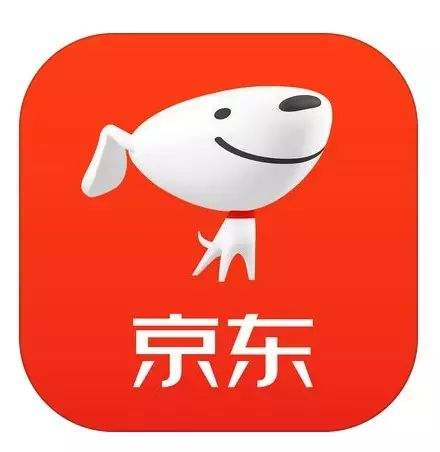
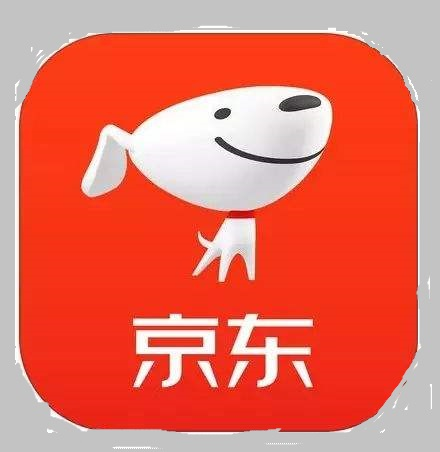
美化图标小改动

Changed region(s): [[0.0, 0.0, 1.0, 1.0]]

diff --git a/index.html b/index.html
@@ -11,15 +11,18 @@
 <div class="container" align="center">
   <div class="header"><h1><img src="image/award.gif" alt="" width="71" height="90"/>Elijah网址导航</h1>
     <!-- end .header --></div>
+<!--	百度，谷歌搜索框-->
     <div id="baidu" align="center">
     	<form action="http://www.baidu.com/s" target="_blank" class="baidu">
+<!--    	<form action="https://google.cn/s" target="_blank" class="baidu">-->
 			<input  height="100" name="word" type="text" class="input" > 
   			<span><button type="submit" class="button" >百度一下</button></span> 
   			<span><button type="submit" class="button" >谷歌一下（正在开发）</button></span> 
 		</form>
     </div>
+<!--		我的部分-->
 		<div id="mysiteimgs" align="center">
-			<p><h1>春的工作区</h1></p>
+			<p><h1>Elijah的工作区</h1></p>
       		<a title="百度" href="http://www.baidu.com/" target="hah"><img alt="慢点，图得等一会" title="百度" class="img" src="image/baidu.jpg"/></a>    	
     		<a href="https://www.bilibili.com/" target="_blank"><img alt="慢点，图得等一会" title="bilibili" class="img" src="image/bilibili.jpg"/></a>
             <a href="https://www.taobao.com/" target="_blank"><img alt="慢点，图得等一会" class="img" src="image/淘宝.jpg"/></a>
@@ -36,32 +39,23 @@
             <a href="https://www.ixueshu.com/" target="_blank"><img class="img" src="image/爱学术.png" /></a>
 			<a href="http://www.ccjt.net/" target="_blank"><img class="img" src="image/ccjt.gif" /></a>
    	   </div>
-		
+<!--	静静的工作部分-->
 		<div id="jjsiteimgs" align="center">
 			<p><h1>静的工作区</h1></p>
 			<span id="lzwords"></span>
 				<script type="text/javascript">
-					var lz = ["天行健，君子以自強不息，地勢坤，君子以厚德载物",
-							  "如果放弃太早，你永远都不知道自己会错过什么", 
-							  "你特么的看看你现在的样子?还是我爱的那个你么",
-							  "你的选择是做或不做，但不做就永远不会有机会", 
-							  "你必须成功，因为你不能失败", 
-							  "人生有两出悲剧：一是万念俱灰，另一是踌躇满志",
-							  "遇到困难时不要抱怨，既然改变不了过去，那么就努力改变未来",
-							  "只要功夫深，铁杵磨成针",
-							  "用理想去成就人生，不要蹉跎了岁月",
-							 "永不言败是追究者的最佳品格",
-							  "目标的实现建立在我要成功的强烈愿望上",
-							  "保持激情;只有激情，你才有动力，才能感染自己和其他人",
-							  "别人能做到的事，自己也可以做到",
-							  "学习必须如蜜蜂一样，采过许多花，这才能酿出蜜来",
-							  "努力了不一定能够成功，但是放弃了肯定是失败",
-							  "生命有期限 爱却无限",'对我而言 你就是整个世界',
-							  "幸福是你喜欢的人du也喜欢你","你的笑容是我最深的牵zhi挂","爱不会因为时间而变得乏味","爱是一种无言的承诺 需要用心聆听", "爱是你我之间不变的深情","你我互为彼此的唯一","真心不会因为距离而遥远","你是我的一切 无人可以替代","爱是快乐忧愁的分享分担","来不及参与你的过去 但我不会错过你的未来","我会陪你走过所有的阴天和艳阳天 直到一生一世","缘分让我们认识 感觉让我喜欢你","有一种默契叫心照不宜","爱你是一种幸福 想你是一种快乐","一切尽在不言中或许正是爱情的最高境界","相爱的两个 用心温暖着彼此","当他自然地牵起你的手的 他是爱你的","恋爱 就是些许笨拙 加上无数的好奇","因为有你 此生无悔", "当他静静地看着你微笑时 他是爱你的","爱是两人世界里 唯一的信仰", "时间让我爱上你 心中一切都是你","爱 是夜里与你数星星的安闲舒适", "诺言与谎言只有一字之差"];
+					var lz = ["天行健，君子以自強不息，地勢坤，君子以厚德载物","如果放弃太早，你永远都不知道自己会错过什么","你特么的看看你现在的样子?还是我爱的那个你么","你的选择是做或不做，但不做就永远不会有机会", "你必须成功，因为你不能失败","人生有两出悲剧：一是万念俱灰，另一是踌躇满志","遇到困难时不要抱怨，既然改变不了过去，那么就努力改变未来","只要功夫深，铁杵磨成针", "用理想去成就人生，不要蹉跎了岁月","永不言败是追究者的最佳品格", "目标的实现建立在我要成功的强烈愿望上","保持激情;只有激情，你才有动力，才能感染自己和其他人", "别人能做到的事，自己也可以做到","学习必须如蜜蜂一样，采过许多花，这才能酿出蜜来","努力了不一定能够成功，但是放弃了肯定是失败", "生命有期限 爱却无限",'对我而言 你就是整个世界',"幸福是你喜欢的人du也喜欢你","你的笑容是我最深的牵zhi挂","爱不会因为时间而变得乏味","爱是一种无言的承诺 需要用心聆听", "爱是你我之间不变的深情","你我互为彼此的唯一","真心不会因为距离而遥远","你是我的一切 无人可以替代","爱是快乐忧愁的分享分担","来不及参与你的过去 但我不会错过你的未来","我会陪你走过所有的阴天和艳阳天 直到一生一世","缘分让我们认识 感觉让我喜欢你","有一种默契叫心照不宜","爱你是一种幸福 想你是一种快乐","一切尽在不言中或许正是爱情的最高境界","相爱的两个 用心温暖着彼此","当他自然地牵起你的手的 他是爱你的","恋爱 就是些许笨拙 加上无数的好奇","因为有你 此生无悔", "当他静静地看着你微笑时 他是爱你的","爱是两人世界里 唯一的信仰", "时间让我爱上你 心中一切都是你","爱 是夜里与你数星星的安闲舒适", "诺言与谎言只有一字之差"];
 					var m = Math.random();
 					var n = Math.floor(m*(lz.length+1));
 						document.getElementById("lzwords").innerHTML = lz[n]+'</br>'
 				</script>
+<!--	英文直接翻译框-->
+<!--
+			<form method="get" action="https://translate.google.cn/">
+				<input type="textarea" class="fanyi_text" id="fanyi_inp" value="请输入英文……"/>
+				<input type="text" class="fanyi_text" id="fanyi_outp"/></form>
+-->
+			
       		<a href="https://docs.qq.com/desktop" target="_blank"><img title="这里可能是分享线上文档的吧" class="img" src="img_jingjing/腾讯文档.jpg"/></a>	
     		<a href="https://translate.google.cn/" target="_blank"><img title="英文不会点这里" class="img" src="img_jingjing/谷歌翻译.jpg"/></a>
 			<a href="http://samp.cas.cn/" target="_blank"><img title="设备共享平台" class="img" src="img_jingjing/设备共享平台.png"/></a>
@@ -77,16 +71,13 @@
    	   </div>
 
 		<div style="float:center; width: 2px; height: 500px; background: darkgray;"></div>
-	
 </div>
 		
    <div id="footer">
-	   <p>Copyright © 2012 XJTU. All Rights Reserved.Designed by <a href="About Elijah.html"target="_blank">Elijah</a>. 
-	   </p>
-	   <p><a href="测试区\test.html"target="_blank">测试区</a>. 
-	   </p>
-  <input type="button" value="关闭窗口" onclick="window.close()" />
+	   <p>Copyright © 2012 XJTU. All Rights Reserved.Designed by <a href="About Elijah.html" target="_blank">Elijah</a></p>
+	   <p><a href="测试区\test.html" target="_blank">测试区</a></p>
+	   <input type="button" onClick="window.close()" value="关闭窗口" />
   </div>
-  <!-- end .container --></div>
+  <!-- end .container -->
 </body>
 </html>

diff --git a/my_css.css b/my_css.css
@@ -5,11 +5,8 @@ body {
 	padding: 0;
 	color: #000;
 }
-
-h1, h2, h3, h4, h5, h6, p {
-	margin-top: 0;	 /* 删除上边距可以解决边距会超出其包含的 div 的问题。剩余的下边距可以使 div 与后面的任何元素保持一定距离。 */
-	padding-right: 15px;
-	padding-left: 15px; /* 向 div 内的元素侧边（而不是 div 自身）添加填充可避免使用任何方框模型数学。此外，也可将具有侧边填充的嵌套 div 用作替代方法。 */
+.header h1 {
+	margin-top: 0
 }
 a img { /* 此选择器将删除某些浏览器中显示在图像周围的默认蓝色边框（当该图像包含在链接中时） */
 	border: none;
@@ -28,13 +25,7 @@ a img { /* 此选择器将删除某些浏览器中显示在图像周围的默认
 .img {
 	height: 70px;
 }
-#mywords{
-	float:center;
-	font-family:"Times New Roman", Times, serif;
-	margin-right:250px;
-	background:#F90;
-	color:#111;}
-#mywords.h3{ font-family:sans-serif, serif;}
+
 #menu{
 	float:center;
     margin-right:3px;}
@@ -47,12 +38,15 @@ a img { /* 此选择器将删除某些浏览器中显示在图像周围的默认
           width:410px;
 		  }
 
+
 #jjsiteimgs{background:#FFF;
 	float: right;
 	margin-right: 50px;
           width:410px;
 		  }
-
+.fanyi_text{
+	height:50px;
+}
 #list {float:right;
        width:800px;
 	   margin-right:262px;
